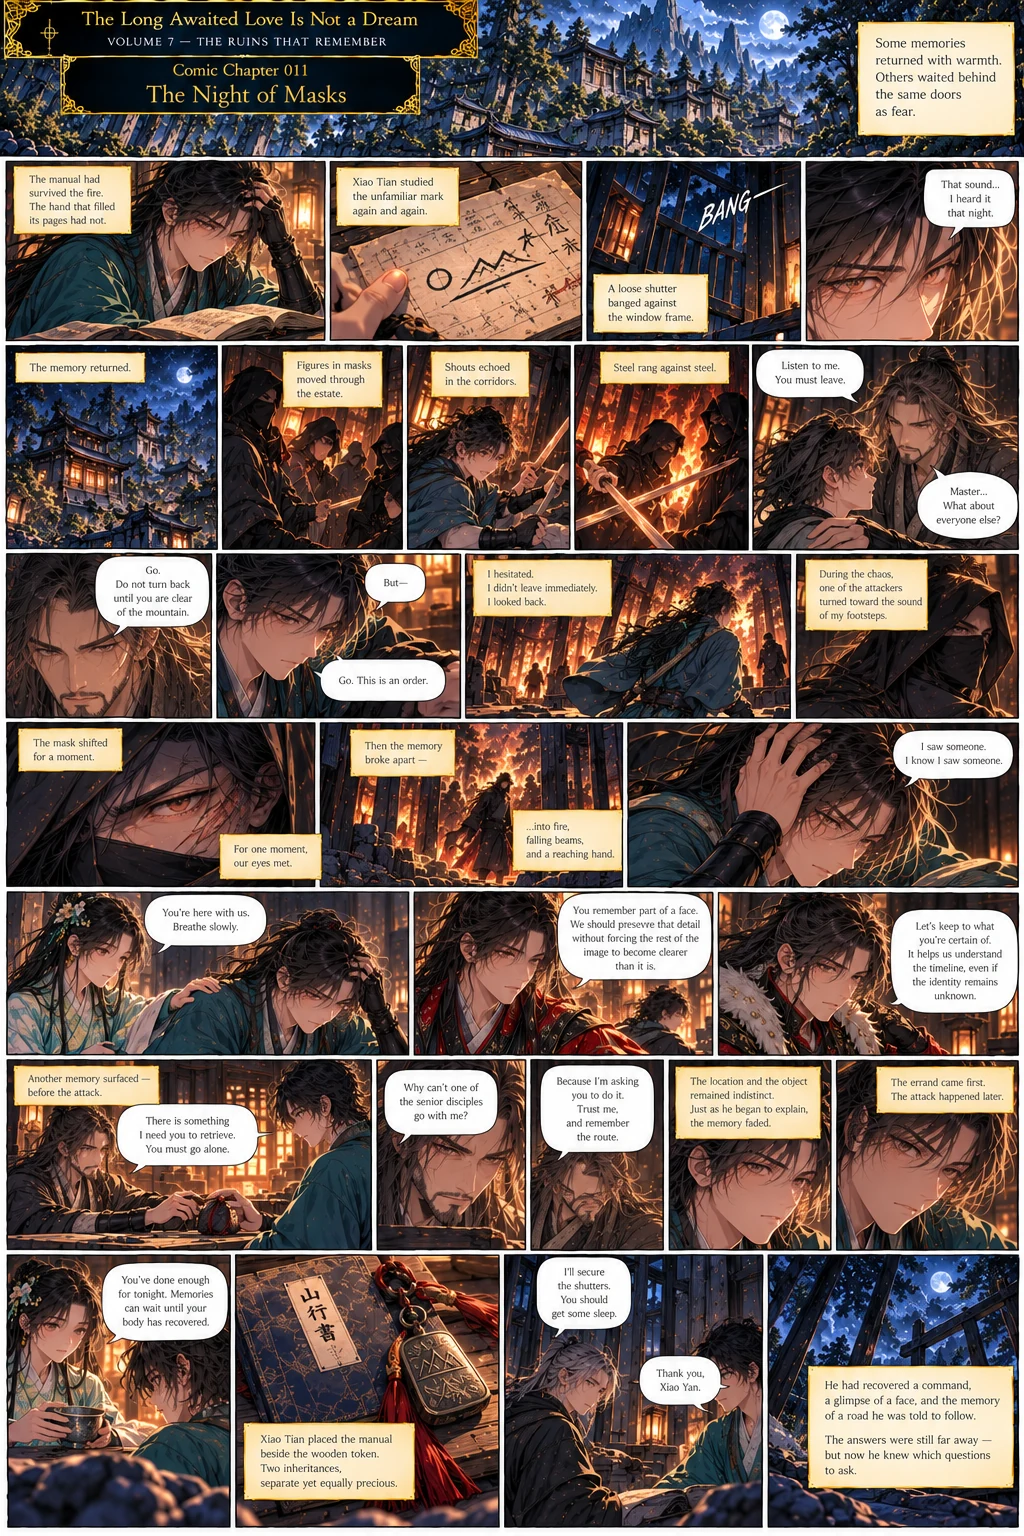
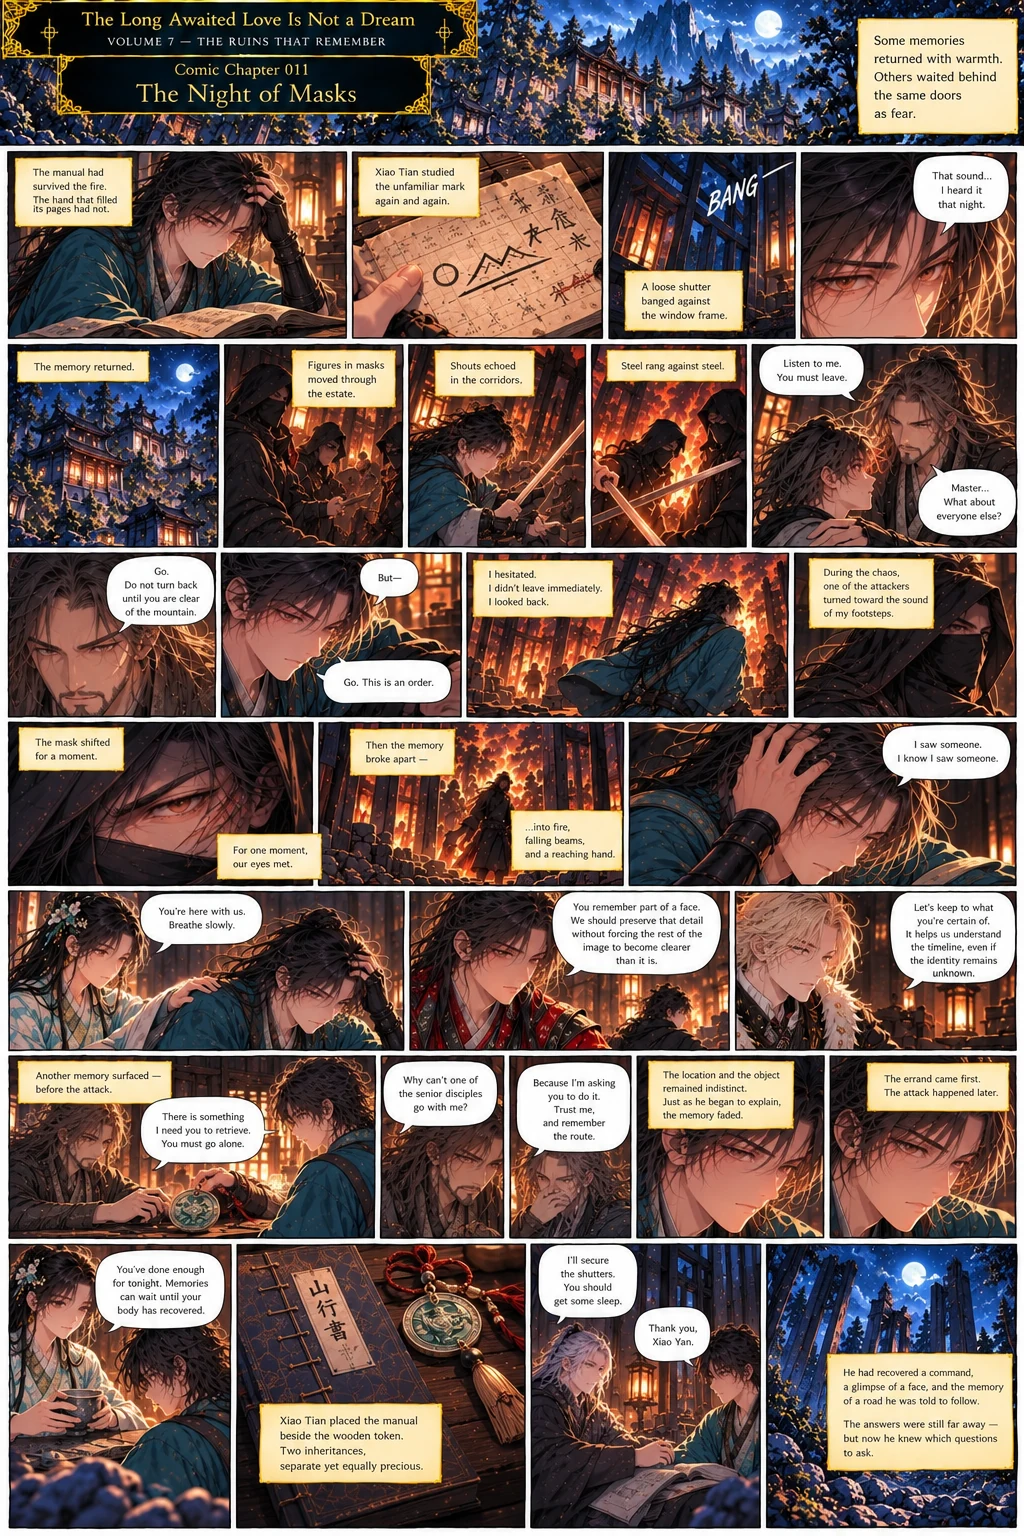
Volume 7: comic 006 (chapter 243), regenerated 011 (chapter 248), comic 016 (chapter 253)
Claude-Session: https://claude.ai/code/session_01XEYzSJa6dBuS74MycM45Hs

diff --git a/scripts/chapters.js b/scripts/chapters.js
@@ -869,7 +869,10 @@ const CHAPTER_DESIGN = {
   sum:'VOLUME 7, COMIC 005. The mountains had changed less than the world below; here the years left marks but did not erase every trace of what happened. The party gives Xiao Tian space at the ruined gate. The door groans, the same sound as before, and a small memory returns: the courtyard fills with the sound of wooden swords, the instructions of a stern master and the weight of many mornings. "We trained here." "Your technique is still there." "I know how to move. I just can\'t remember who taught me every part of it." Dongyue: "You don\'t need to recover everything today." The marks on the entrances weren\'t made by weather: the damage is concentrated around the entrances and someone forced their way through. Xining finds a hairpin that survived the collapse: "I don\'t know this hairpin... but seeing it feels familiar." A fragment: flames beyond the doorway and someone shouting for him to run. "We\'ve learned enough for today. We\'ll continue when he\'s ready." In his old room a few belongings remain beneath the dust: "I used to keep things here. Small things. I don\'t remember what they were." Somewhere inside the ruins a piece of his old life had survived the fire.',
   events:['The gate groans: the same sound as before.','Wooden swords and a stern master.','Damage forced around the entrances.','A hairpin that feels familiar.'],
   chars:['xiyu','dongyue','cangyuan','xining','xiaotian','yaxing','hoko','yanwatcher'], intro:[], unlocks:['Discovery: signs the estate was forced']},
- 243:{title:'Volume 7 · Comic 006 (not uploaded yet)', book:'—', loc:'?', sum:'PLACEHOLDER. Volume 7 comic 006 has not been uploaded yet (it falls between the gate and the old study). It can be completed to move on.', events:[], chars:['xiyu','dongyue','cangyuan','xining','xiaotian','yaxing','hoko','yanwatcher'], intro:[], unlocks:[], pending:true},
+ 243:{title:'What Survived the Fire', book:'—', loc:'Xiao Tian\'s old room',
+  sum:'VOLUME 7, COMIC 006. Some things had been lost to the fire, but not everything had been destroyed. Xiao Tian returns to his old room, following the faint memory from the dream: a loose brick, just as he remembered, with a small recess behind it. Inside, wrapped in a dark cloth, is a jade keepsake on a red cord with a gold tassel. It was not the manual: it was a personal keepsake left by his master. For a moment memories return, not of the attack but of quieter days: his master had cared for him, taught him and protected him, and given him this keepsake as a reminder that he was never truly alone. But the memories did not reveal who had attacked the estate, or why. The manual must be hidden elsewhere in the estate; this was only one piece of the past. Later Xiao Tian rejoins the others and shows them what he found. "It\'s a personal keepsake from my master." "It doesn\'t reveal who attacked the estate. But it confirms that he cared for you." "Then it\'s important you keep it. It\'s part of who you are." "We\'ll continue searching for the manual tomorrow. There may be other hidden places in the estate." That night Xiao Tian places the keepsake beside him: a small thing, but it gave him strength. His master\'s care had survived the fire, and so would he. There were still secrets within these ruins, and the search for the manual would continue.',
+  events:['A loose brick and a small recess.','"It was not the manual. It was a personal keepsake left by his master."','"It confirms that he cared for you."','"The search for the manual would continue."'],
+  chars:['xiyu','dongyue','cangyuan','xining','xiaotian','yaxing','hoko','yanwatcher'], intro:[], unlocks:['Discovery: his master\'s jade keepsake']},
  244:{title:'The Old Study', book:'—', loc:'The old study at the end of the inner corridor',
   sum:'VOLUME 7, COMIC 007. Guided by fragments of memory the party moves deeper into the estate, beyond the training courtyards, to the old study at the far end of the inner corridor. "I remember coming here with my master... but the details are still blurred." The study holds mostly accounts, ledgers and records, many damaged, and the damage is different from the outer buildings: "These were not destroyed randomly." "Whoever did this knew what they were looking for." Behind a loose panel Xiao Tian finds a narrow wooden box beneath a collapsed shelf, its worn carving the same distinctive mountain motif as his keepsake. Inside, wrapped in oilcloth, are several items: a rough map of the estate with markings that don\'t match its current state, and a short incomplete note: "If anything happens, there are still things you must find." "Not everything can be entrusted to memory." "Even if you forget, the path will still be here." The voice is indistinct and he cannot see his master\'s face, but the feelings are real: steady, warm and filled with trust. "This may be a map to the remaining sections of the estate." "There are sealed areas marked here." One marking leads to a place beneath the main hall, a storage area not visible from the surface. The keepsake had returned a piece of his past, and the map had revealed that there was more to find.',
   events:['A study searched for specific things.','A hidden box with the mountain motif.','"Even if you forget, the path will still be here."','A marking leads beneath the main hall.'],
@@ -887,8 +890,8 @@ const CHAPTER_DESIGN = {
   events:['A corrected section: the final movement changed.','Pages removed carefully.','"I may be able to relearn the reasoning."','A mountain-and-circle mark on the binding.'],
   chars:['xiyu','dongyue','cangyuan','xining','xiaotian','yaxing','hoko','yanwatcher'], intro:[], unlocks:['Discovery: the manual has missing pages and a mark']},
  248:{title:'The Night of Masks', book:'—', loc:'The estate at night',
-  sum:'VOLUME 7, COMIC 011. Some memories returned with warmth; others waited behind the same doors as fear. Xiao Tian studies the unfamiliar mark again and again; a loose shutter bangs. "That sound... I heard it that night." The memory returns: figures in masks move through the estate, shouts echo in the corridors and steel rings against steel. "Listen to me. You must leave." "Master... What about everyone else?" "Go. Do not turn back until you are clear of the mountain. Go. This is an order." "I hesitated. I didn\'t leave immediately. I looked back." During the chaos one of the attackers turned toward the sound of his footsteps; the mask shifted for a moment and their eyes met. Then the memory broke apart into fire, falling beams and a reaching hand. "I saw someone. I know I saw someone." Xining: "You\'re here with us. Breathe slowly." Dongyue: "You remember part of a face. We should preserve that detail without forcing the rest of the image to become clearer than it is." Another memory surfaces, before the attack: "There is something I need you to retrieve. You must go alone." "Why can\'t one of the senior disciples go with me?" "Because I\'m asking you to do it. Trust me, and remember the route." The location and the object remained indistinct. The errand came first; the attack happened later. He had recovered a command, a glimpse of a face and the memory of a road he was told to follow. The answers were still far away, but now he knew which questions to ask.',
-  events:['A shutter bangs: the night returns.','"Go. Do not turn back until you are clear of the mountain."','An attacker\'s mask shifts; their eyes meet.','"The errand came first. The attack happened later."'],
+  sum:'VOLUME 7, COMIC 011 (regenerated for the keepsake). Some memories returned with warmth; others waited behind the same doors as fear. Xiao Tian studies the unfamiliar mark again and again; a loose shutter bangs. "That sound... I heard it that night." The memory returns: figures in masks move through the estate, shouts echo in the corridors and steel rings against steel. "Listen to me. You must leave." "Master... What about everyone else?" "Go. Do not turn back until you are clear of the mountain. Go. This is an order." "I hesitated. I didn\'t leave immediately. I looked back." During the chaos one of the attackers turned toward the sound of his footsteps; the mask shifted for a moment and their eyes met. Then the memory broke apart into fire, falling beams and a reaching hand. "I saw someone. I know I saw someone." Xining: "You\'re here with us. Breathe slowly." Dongyue: "You remember part of a face. We should preserve that detail without forcing the rest of the image to become clearer than it is." Hoko: "Let\'s keep to what you\'re certain of. It helps us understand the timeline, even if the identity remains unknown." Another memory surfaces, before the attack: his master, with the jade token before him: "There is something I need you to retrieve. You must go alone." "Why can\'t one of the senior disciples go with me?" "Because I\'m asking you to do it. Trust me, and remember the route." The location and the object remained indistinct; the errand came first and the attack happened later. Xiao Tian places the manual beside the jade token: two inheritances, separate yet equally precious. Xiao Yan: "I\'ll secure the shutters. You should get some sleep." "Thank you, Xiao Yan." He had recovered a command, a glimpse of a face and the memory of a road he was told to follow. The answers were still far away, but now he knew which questions to ask.',
+  events:['A shutter bangs: the night returns.','"Go. Do not turn back until you are clear of the mountain."','An attacker\'s mask shifts; their eyes meet.','The manual beside the jade token: two inheritances.'],
   chars:['xiyu','dongyue','cangyuan','xining','xiaotian','yaxing','hoko','yanwatcher'], intro:[], unlocks:['Memory: the night of the masked attack','Memory: an errand he must do alone']},
  249:{title:'The Errand He Forgot', book:'—', loc:'The estate',
   sum:'VOLUME 7, COMIC 012. He remembered being sent away and returning to ruin; between those two moments lay a road his mind could no longer find. "Do you remember anything else about the errand?" "Only pieces. I was meant to leave alone. My master told me to remember the route." "Keep it dry. Don\'t open it on the road." "I was carrying something. I\'m sure of that much. But the memory fades before I can see what it was." The party lays out the map, the manual and their notes: "The mountain roads have changed. Even if we knew the original route, we\'d need to check which sections remain passable." What they know: his master sent him away before the attack; he carried a wrapped object; he was told to remember the route. Dongyue: "The errand may explain why you survived. But we can\'t assume your master sent you away because he expected the massacre." "I don\'t want us to invent an answer just because we need one." Xining: "If you push too hard, you may only exhaust yourself." Xiao Tian: "I can perform forms I don\'t remember learning. But when I try to recall that night, everything breaks apart." He stops before the final movement: "I know what to do. I just can\'t hear his explanation anymore." Hoko proposes a guided trance: slow breathing, a steady point to focus on and careful questions, like a pendulum. "And if the method leads him toward a memory that isn\'t real?" "Then we stop. It cannot prove that a memory is true. It may help him reach a fragment, but we mustn\'t put words into his mouth." Xiao Tian: "I want to try. Not tonight, but when I\'m rested." The party prepares. He could not force the past to return, but with his companions beside him, he could choose how to seek it.',
@@ -905,7 +908,11 @@ const CHAPTER_DESIGN = {
  252:{title:'Words in the Night', book:'—', loc:'A stable part of the estate',
   sum:'VOLUME 7, COMIC 015. The trail had offered a direction, not a destination; for tonight the party had reached the limit of what the ruins could tell them. They return to a stable part of the estate. Xining gives Xiao Tian a drink to help him recover from the strain of the last few days: "You\'ve been looking after everyone." "That\'s what happens when everyone forgets to rest." The two companions settle into the same room. Ya\'Xing lies awake listening to the wind; Xiao Tian murmurs in his sleep: "When you reach the... ...Jinghe... stone beneath the pine..." "Xiao Tian?" Ya\'Xing repeats the phrase silently to himself, committing it to memory. The next morning: "You said something in your sleep. I think it might matter." "What did I say?" "\'Jinghe... stone beneath the pine.\' You repeated it twice." "Jinghe... I don\'t recognise the name. Not consciously." Dongyue: "It could be a place, a landmark, or part of an instruction. We shouldn\'t decide which until we have more evidence." Xiao Yan: "There are several old routes that pass beneath pine-covered slopes. We\'ll need more than that phrase to identify one." Hoko: "I can\'t find \'Jinghe\' marked here. It might be a local name that never appeared on this map." Xiyu: "Or it may not be a name at all. It could be a phrase he learned to associate with the errand." Dongyue: "Either way, it came from Xiao Tian\'s own sleep. That makes it worth investigating, not automatically true." The note: \'Jinghe: "stone beneath the pine." (heard during sleep) Meaning unconfirmed.\' A few whispered words had survived where a whole night remained lost; the party now had another clue, but not yet an answer.',
   events:['Xiao Tian murmurs in his sleep: "Jinghe... stone beneath the pine."','Ya\'Xing commits it to memory.','"Worth investigating, not automatically true."','The note: meaning unconfirmed.'],
-  chars:['xiyu','dongyue','cangyuan','xining','xiaotian','yaxing','hoko','yanwatcher'], intro:[], unlocks:['Discovery: the words "Jinghe... stone beneath the pine"']}
+  chars:['xiyu','dongyue','cangyuan','xining','xiaotian','yaxing','hoko','yanwatcher'], intro:[], unlocks:['Discovery: the words "Jinghe... stone beneath the pine"']},
+ 253:{title:'The Route Beyond the Mountain', book:'—', loc:'The estate\'s surviving study, the pine forest and the lower valley',
+  sum:'VOLUME 7, COMIC 016. A few whispered words were not enough to identify a destination, but old records could preserve what memory had lost. The party gathers in the estate\'s surviving study and compares the old map with the notes from Xiao Tian\'s memory session. Xiao Yan: "This mark may match the phrase Xiao Tian spoke in his sleep. We should compare it with the other notations." Dongyue: "The pine mark is older than the surrounding notes. Someone copied it from an earlier record." "This section was added later. The original map may have shown a route that no longer exists." Hoko: "There\'s a name here, or the remains of one." Xiao Tian: "I don\'t recognise them. But I feel as though I should." Dongyue: "The first character is too damaged to read with confidence. The second might be \'he\', but that is only a possibility." Hoko: "If \'Jinghe\' is a local name, the spelling we use now may not match the old record. We shouldn\'t force the characters to fit the phrase." Xiyu: "The words he spoke could be a place name followed by a landmark. Or someone might have taught him to remember the phrase as a whole." Cangyuan: "Either way, we need an independent record before we treat it as a location." The road on the map leads toward the nearest town beyond the mountain range: "If old records survived there, we may find another reference." "Then that\'s our next destination. We\'ll look for records, not assume we\'ve already found the answer." The party prepares: Xining will replenish supplies once they reach the town; rope and spare bindings for the uneven mountain trail; the map fragment kept dry; the copy goes with them while the original stays protected. Xiao Tian takes one last look at the estate: for days the ruined home had held him close to the life he lost, and now the road led him away from it. They follow the old trail down through the pine forest; mist rolls across the slope; they find an old milestone with a weathered carving of a pine tree that resembles the map symbol, though it provides no readable name. "It\'s familiar. That\'s all I can say." "We\'ll record it and keep going." The road finally carries them beyond the mountains, to a town in the valley. Whether Jinghe was a place, a warning, or a memory waiting to be understood, the next clue lay ahead.',
+  events:['The pine mark is older than the notes around it.','A half-readable name that may not be "Jinghe".','A pine-carved milestone with no readable name.','A town in the valley beyond the mountains.'],
+  chars:['xiyu','dongyue','cangyuan','xining','xiaotian','yaxing','hoko','yanwatcher'], intro:[], unlocks:['Lead: the town beyond the mountain range']}
 };
 
 /* Bond with Xiyu gained when a chapter completes (points; BOND_LEVELS in characters.js).

diff --git a/scripts/core.js b/scripts/core.js
@@ -24,7 +24,7 @@ const GATE_CHAPTERS = [11, 13, 14, 15, 20, 39, 46, 53, 54, 78];   // 53 = Xining
 const VOLUME1_CHAPTERS = 39;
 /* VOLUME 2 uses internal chapter numbers 40+ so the level curve, gates, hooks and saves just keep counting: Vol 2 comic 001 = chapter 40.
    Art: assets/comics/v2/chNN.webp (NN = the Volume 2 comic number). Built so far: V2 comics 001-009 and 015 (010-014 are placeholders so the story can reach 015). */
-const VOL2_START = 40, VOL3_START = 79, VOL4_START = 117, VOL5_START = 169, YX_START = 199, XC_START = 204, VOL6_START = 209, VOL7_START = 238, V3_END_CH = 107, V3_LAST_OLD_CH = 116, V4_END_CH = 141, V4_LAST_OLD_CH = 168, LAST_CHAPTER = 252;
+const VOL2_START = 40, VOL3_START = 79, VOL4_START = 117, VOL5_START = 169, YX_START = 199, XC_START = 204, VOL6_START = 209, VOL7_START = 238, V3_END_CH = 107, V3_LAST_OLD_CH = 116, V4_END_CH = 141, V4_LAST_OLD_CH = 168, LAST_CHAPTER = 253;
 const skipRemoved = n => (n > V3_END_CH && n < V3_LAST_OLD_CH) ? V3_LAST_OLD_CH : (n > V4_END_CH && n < V4_LAST_OLD_CH) ? V4_LAST_OLD_CH : n;
    // Volume 5 side stories (Interludes) follow the finale: Ya'Xing 194-198, Xiyu & Cangyuan from 199
 const interOf = n => n >= VOL6_START ? null : n >= XC_START ? 'xc' : n >= YX_START ? 'yx' : null;

diff --git a/sw.js b/sw.js
@@ -1,5 +1,5 @@
 /* Crimson Moon service worker: app shell cached for offline play; images/comics cached as you play. */
-const VERSION = 'crimson-moon-v51';
+const VERSION = 'crimson-moon-v52';
 const SHELL = ['./', './index.html', './styles.css', './manifest.webmanifest',
   './scripts/characters.js','./scripts/chapters.js','./scripts/script.js','./scripts/script_v2.js','./scripts/hooks.js','./scripts/bounties.js','./scripts/relations.js','./scripts/board.js','./scripts/rest.js','./scripts/herbal.js','./scripts/personal.js','./scripts/equip.js','./scripts/ledger.js','./scripts/seal.js','./scripts/people.js','./scripts/core.js','./scripts/enemies.js','./scripts/battle.js','./scripts/journal.js','./scripts/temple.js','./assets/maps/ice_temple.webp','./assets/maps/ice_temple_v4.webp','./assets/maps/ice_temple_lower_v4.webp','./assets/volume4_cover.webp','./assets/volume5_cover.webp','./assets/volume6_cover.webp',
   './scripts/savedata.js','./scripts/storypopup.js','./scripts/ui.js','./assets/splash.webp','./assets/volume1_cover.webp','./assets/icons/icon-192.png','./assets/icons/icon-512.png','./assets/icons/icon-maskable-192.png','./assets/icons/icon-maskable-512.png'];

diff --git a/scripts/hooks.js b/scripts/hooks.js
@@ -4943,6 +4943,15 @@ const HOOKS = {
 "s": "art"
 }
 ],
+"243": [
+{
+"id": "masters_jade_keepsake_found_behind_a_brick",
+"d": "Xiao Tian finds his master's jade keepsake (not the manual) behind a loose brick in his old room; it confirms the master cared for him but not who attacked",
+"t": "event",
+"p": false,
+"s": "art"
+}
+],
 "244": [
 {
 "id": "study_searched_for_specific_things",
@@ -5040,6 +5049,22 @@ const HOOKS = {
 {
 "id": "jinghe_stone_beneath_the_pine_heard_in_sleep",
 "d": "Xiao Tian murmurs \"Jinghe... stone beneath the pine\" in his sleep; Ya'Xing remembers it; the meaning is unconfirmed",
+"t": "event",
+"p": false,
+"s": "art"
+}
+],
+"253": [
+{
+"id": "pine_mark_older_than_the_notes_and_a_half_readable_name",
+"d": "The old map's pine mark is older than the surrounding notes, and a half-readable name may or may not be \"Jinghe\"; the party needs an independent record",
+"t": "state",
+"p": false,
+"s": "art"
+},
+{
+"id": "road_leads_to_the_town_beyond_the_mountains",
+"d": "The party leaves the estate for the nearest town beyond the mountain range to look for records",
 "t": "event",
 "p": false,
 "s": "art"

diff --git a/tools/build_hooks.py b/tools/build_hooks.py
@@ -81,6 +81,8 @@ for n,lst in H.items():
 
 # ---- Volume 2 (internal chapters 40+ = V2 comic 001+), from the comic pages ----
 V2H={
+ 243:[('masters_jade_keepsake_found_behind_a_brick','Xiao Tian finds his master\'s jade keepsake (not the manual) behind a loose brick in his old room; it confirms the master cared for him but not who attacked','event')],
+ 253:[('pine_mark_older_than_the_notes_and_a_half_readable_name','The old map\'s pine mark is older than the surrounding notes, and a half-readable name may or may not be "Jinghe"; the party needs an independent record','state'),('road_leads_to_the_town_beyond_the_mountains','The party leaves the estate for the nearest town beyond the mountain range to look for records','event')],
  241:[('xiao_tian_recognises_the_peaks_and_the_basin','Xiao Tian recognises the peaks and finds the secluded basin where he lived; a precise reflex movement shows his body remembers','event')],
  242:[('estate_forced_at_the_entrances',"The estate's damage is concentrated around the entrances: someone forced their way through",'event'),('hairpin_survived_the_collapse','Xining finds a hairpin that survived the collapse; it feels familiar to Xiao Tian','event')],
  244:[('study_searched_for_specific_things',"The study was searched by someone who knew what they wanted; Xiao Tian finds his master's hidden box, a rough map of the estate and a note",'event'),('estate_map_marks_a_place_beneath_the_main_hall','The estate map marks a hidden storage area beneath the main hall','event')],

diff --git a/docs/VOLUME2.md b/docs/VOLUME2.md
@@ -374,3 +374,8 @@ Keep 008-010 and 015 as the canonical versions; replace the old 011-014 in seque
 - 241 The Mountain Remembers · 242 The Gate of His Former Home · **243 = comic 006, not uploaded (placeholder)** · 244 The Old Study · 245 The Days Before · 246 The Manual Behind the Wall · 247 The Lesson Between the Lines · 248 The Night of Masks · 249 The Errand He Forgot · 250 Echo Recall · 251 His Master's Instruction · 252 Words in the Night. `LAST_CHAPTER = 252`. Comics were sent out of order (008 after 011); installed by comic number.
 - Xiao Tian's estate arc: the manual 山行書, the masked attack, the errand ("When the road divides, don't follow the wider path"), and "Jinghe... stone beneath the pine" (meaning unconfirmed). No journal clues are built; only story hooks.
 - **Inconsistencies for the author:** (1) 252's note says Ya'Xing and Xiao Tian "settled into the same room", while the other pages show Xiao Yan and Xiao Tian doing the room checks; fine, but Ya'Xing's line suggests they room together. (2) In 244 Xiao Tian finds a hairpin "survived the collapse" in 242 but later pages never return to it. (3) 245's "My master sent me away before..." and 248's errand both place the errand before the attack: consistent. (4) 004 says "a remote region of their own world, a distant continent", while 003 said the same: consistent with the earlier Hoko/Luiterra note.
+
+## Volume 7 comics 006, 011 (regenerated), 016 installed (chapters 243, 248, 253)
+- 006 What Survived the Fire (Xiao Tian finds his master's **jade keepsake**, not the manual; it replaces the placeholder at 243) · 011 The Night of Masks regenerated so the keepsake is the jade token (the earlier "wooden token" in 009-011 text is now the jade token) · 016 The Route Beyond the Mountain (chapter 253, `LAST_CHAPTER = 253`): the party leaves for the nearest town beyond the mountains to look for records about "Jinghe".
+- **Inconsistency for the author:** older Volume 7 pages (009 "the wooden token", 010 the item beside the manual) still show a different token (wooden or dark metal), and 007/009 call the keepsake a "wooden" or "metal" token; only 006 and the new 011 show the jade one. Those pages may need regenerating. The game text for 246-247 still says "wooden token"; I left it as written on those pages.
+- Page note: 006's keepsake was found in 242's "old room"; the hairpin from 242 is not mentioned in 006.
